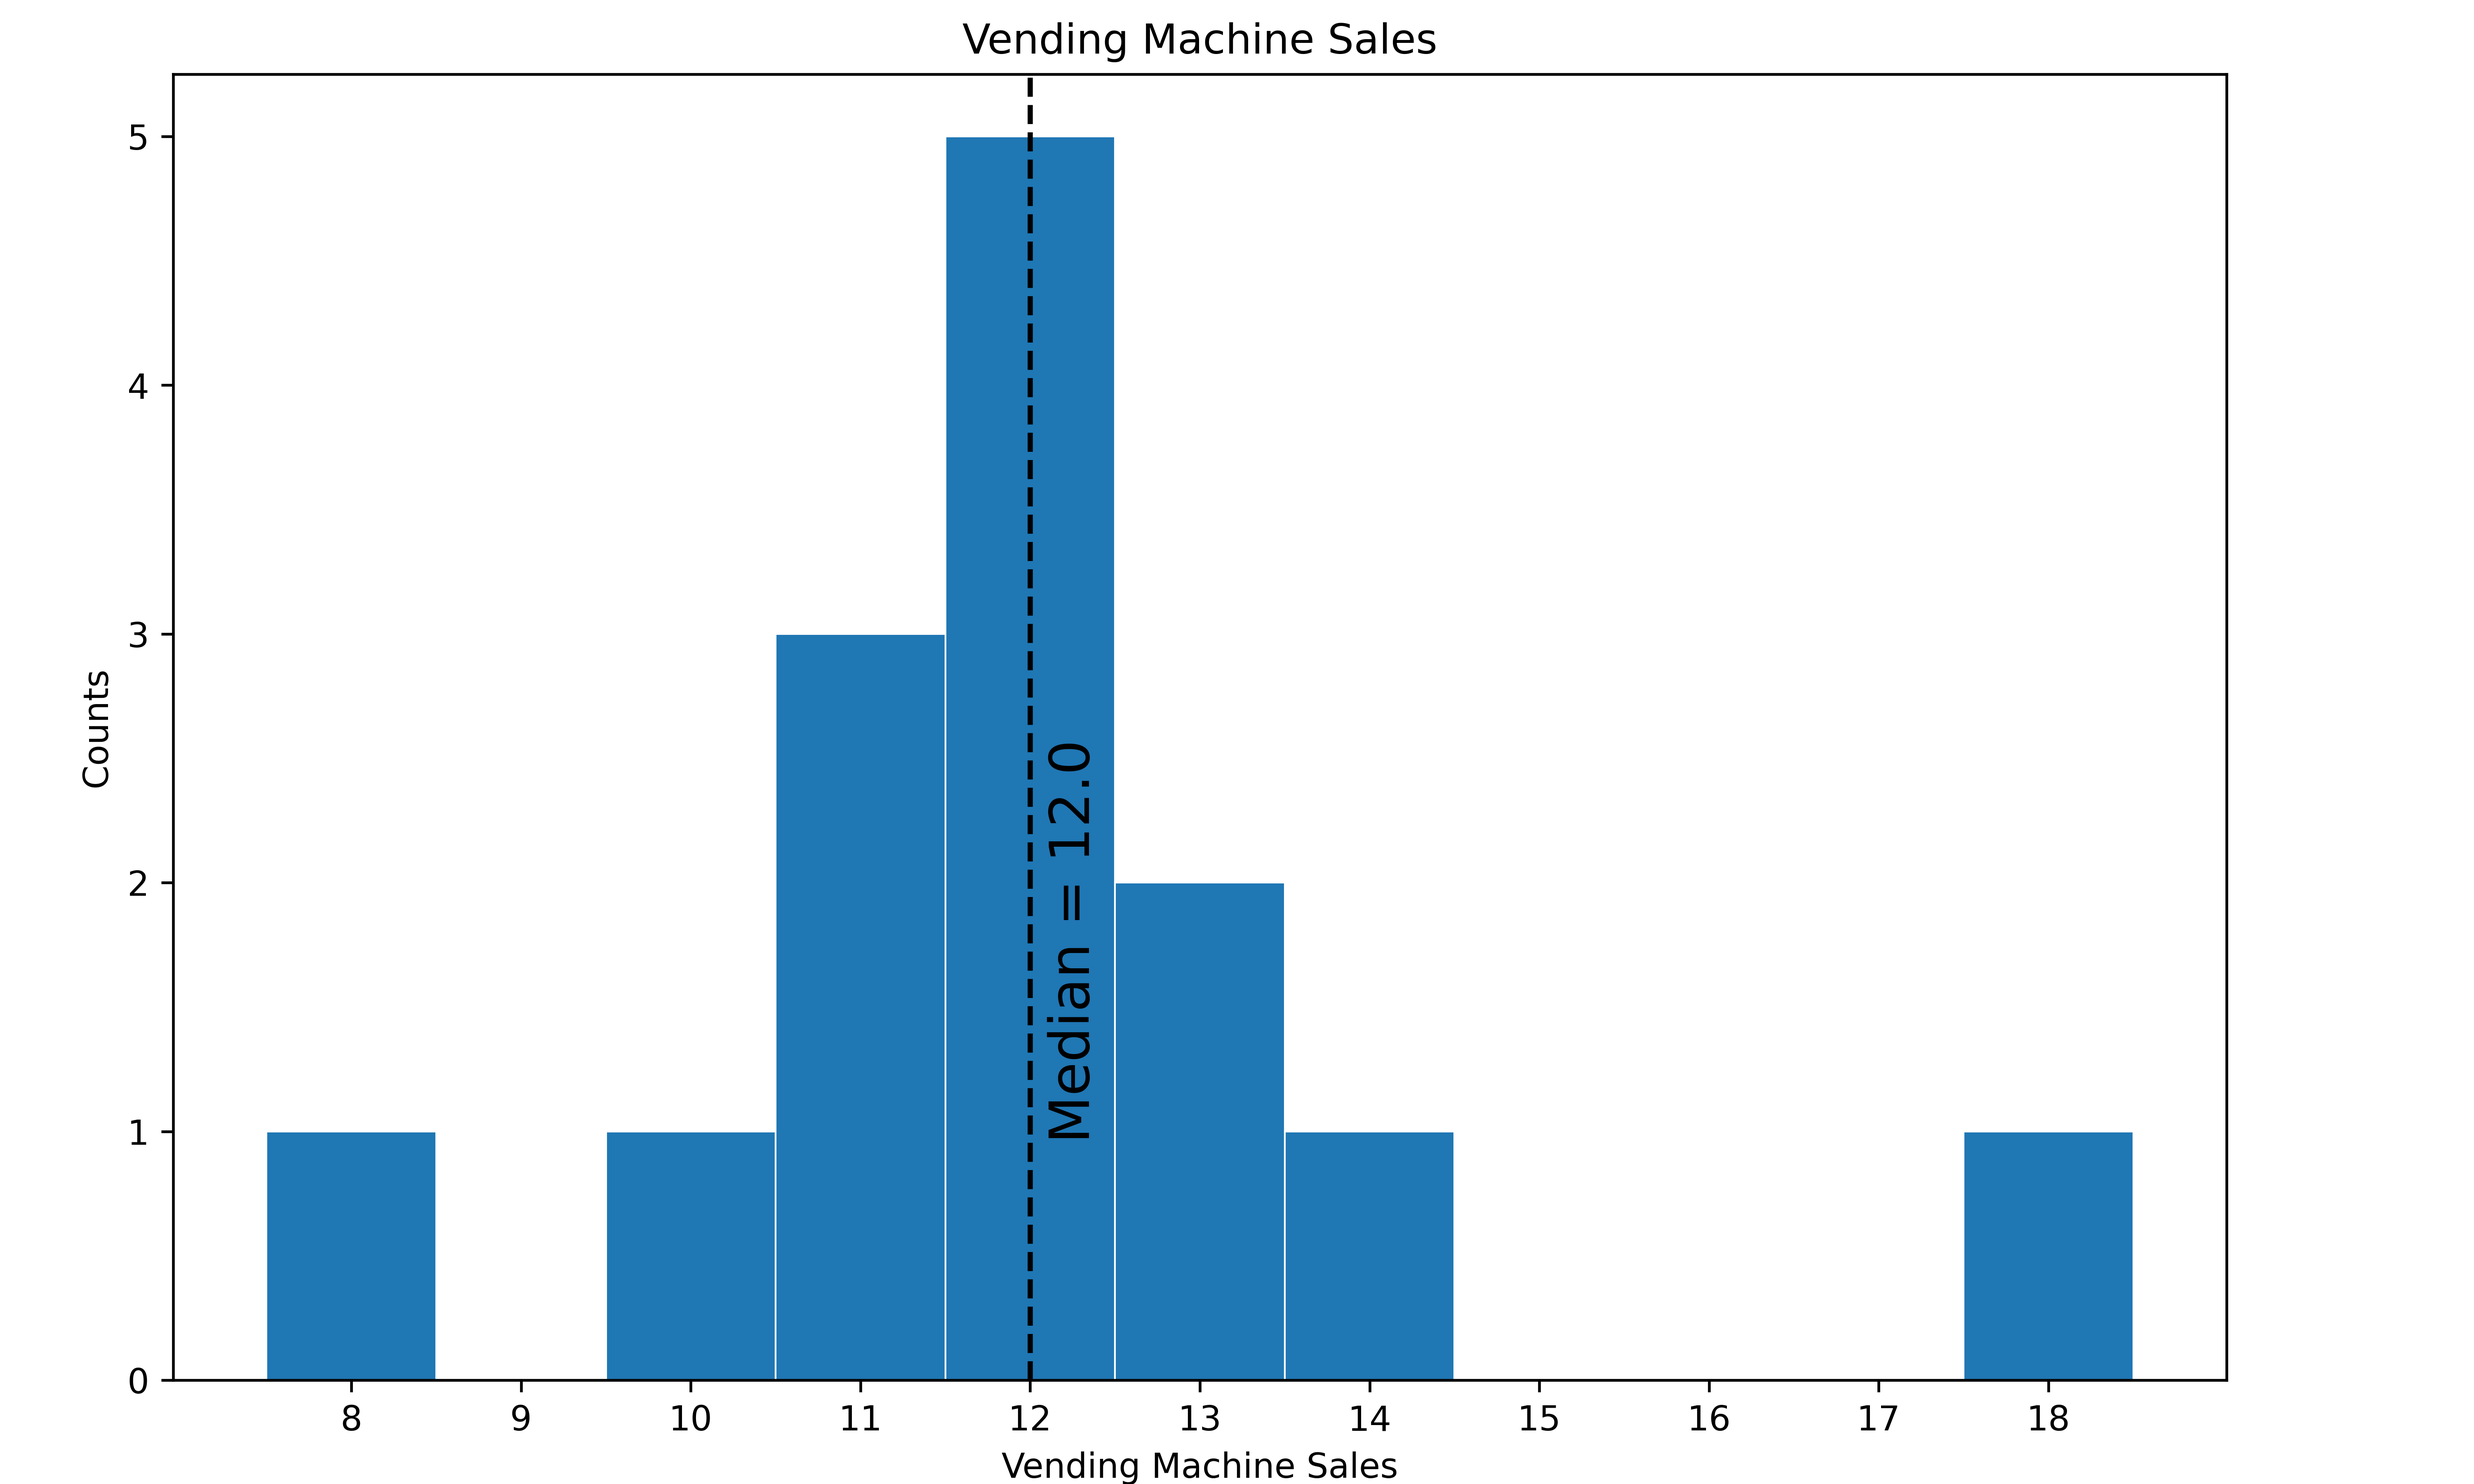
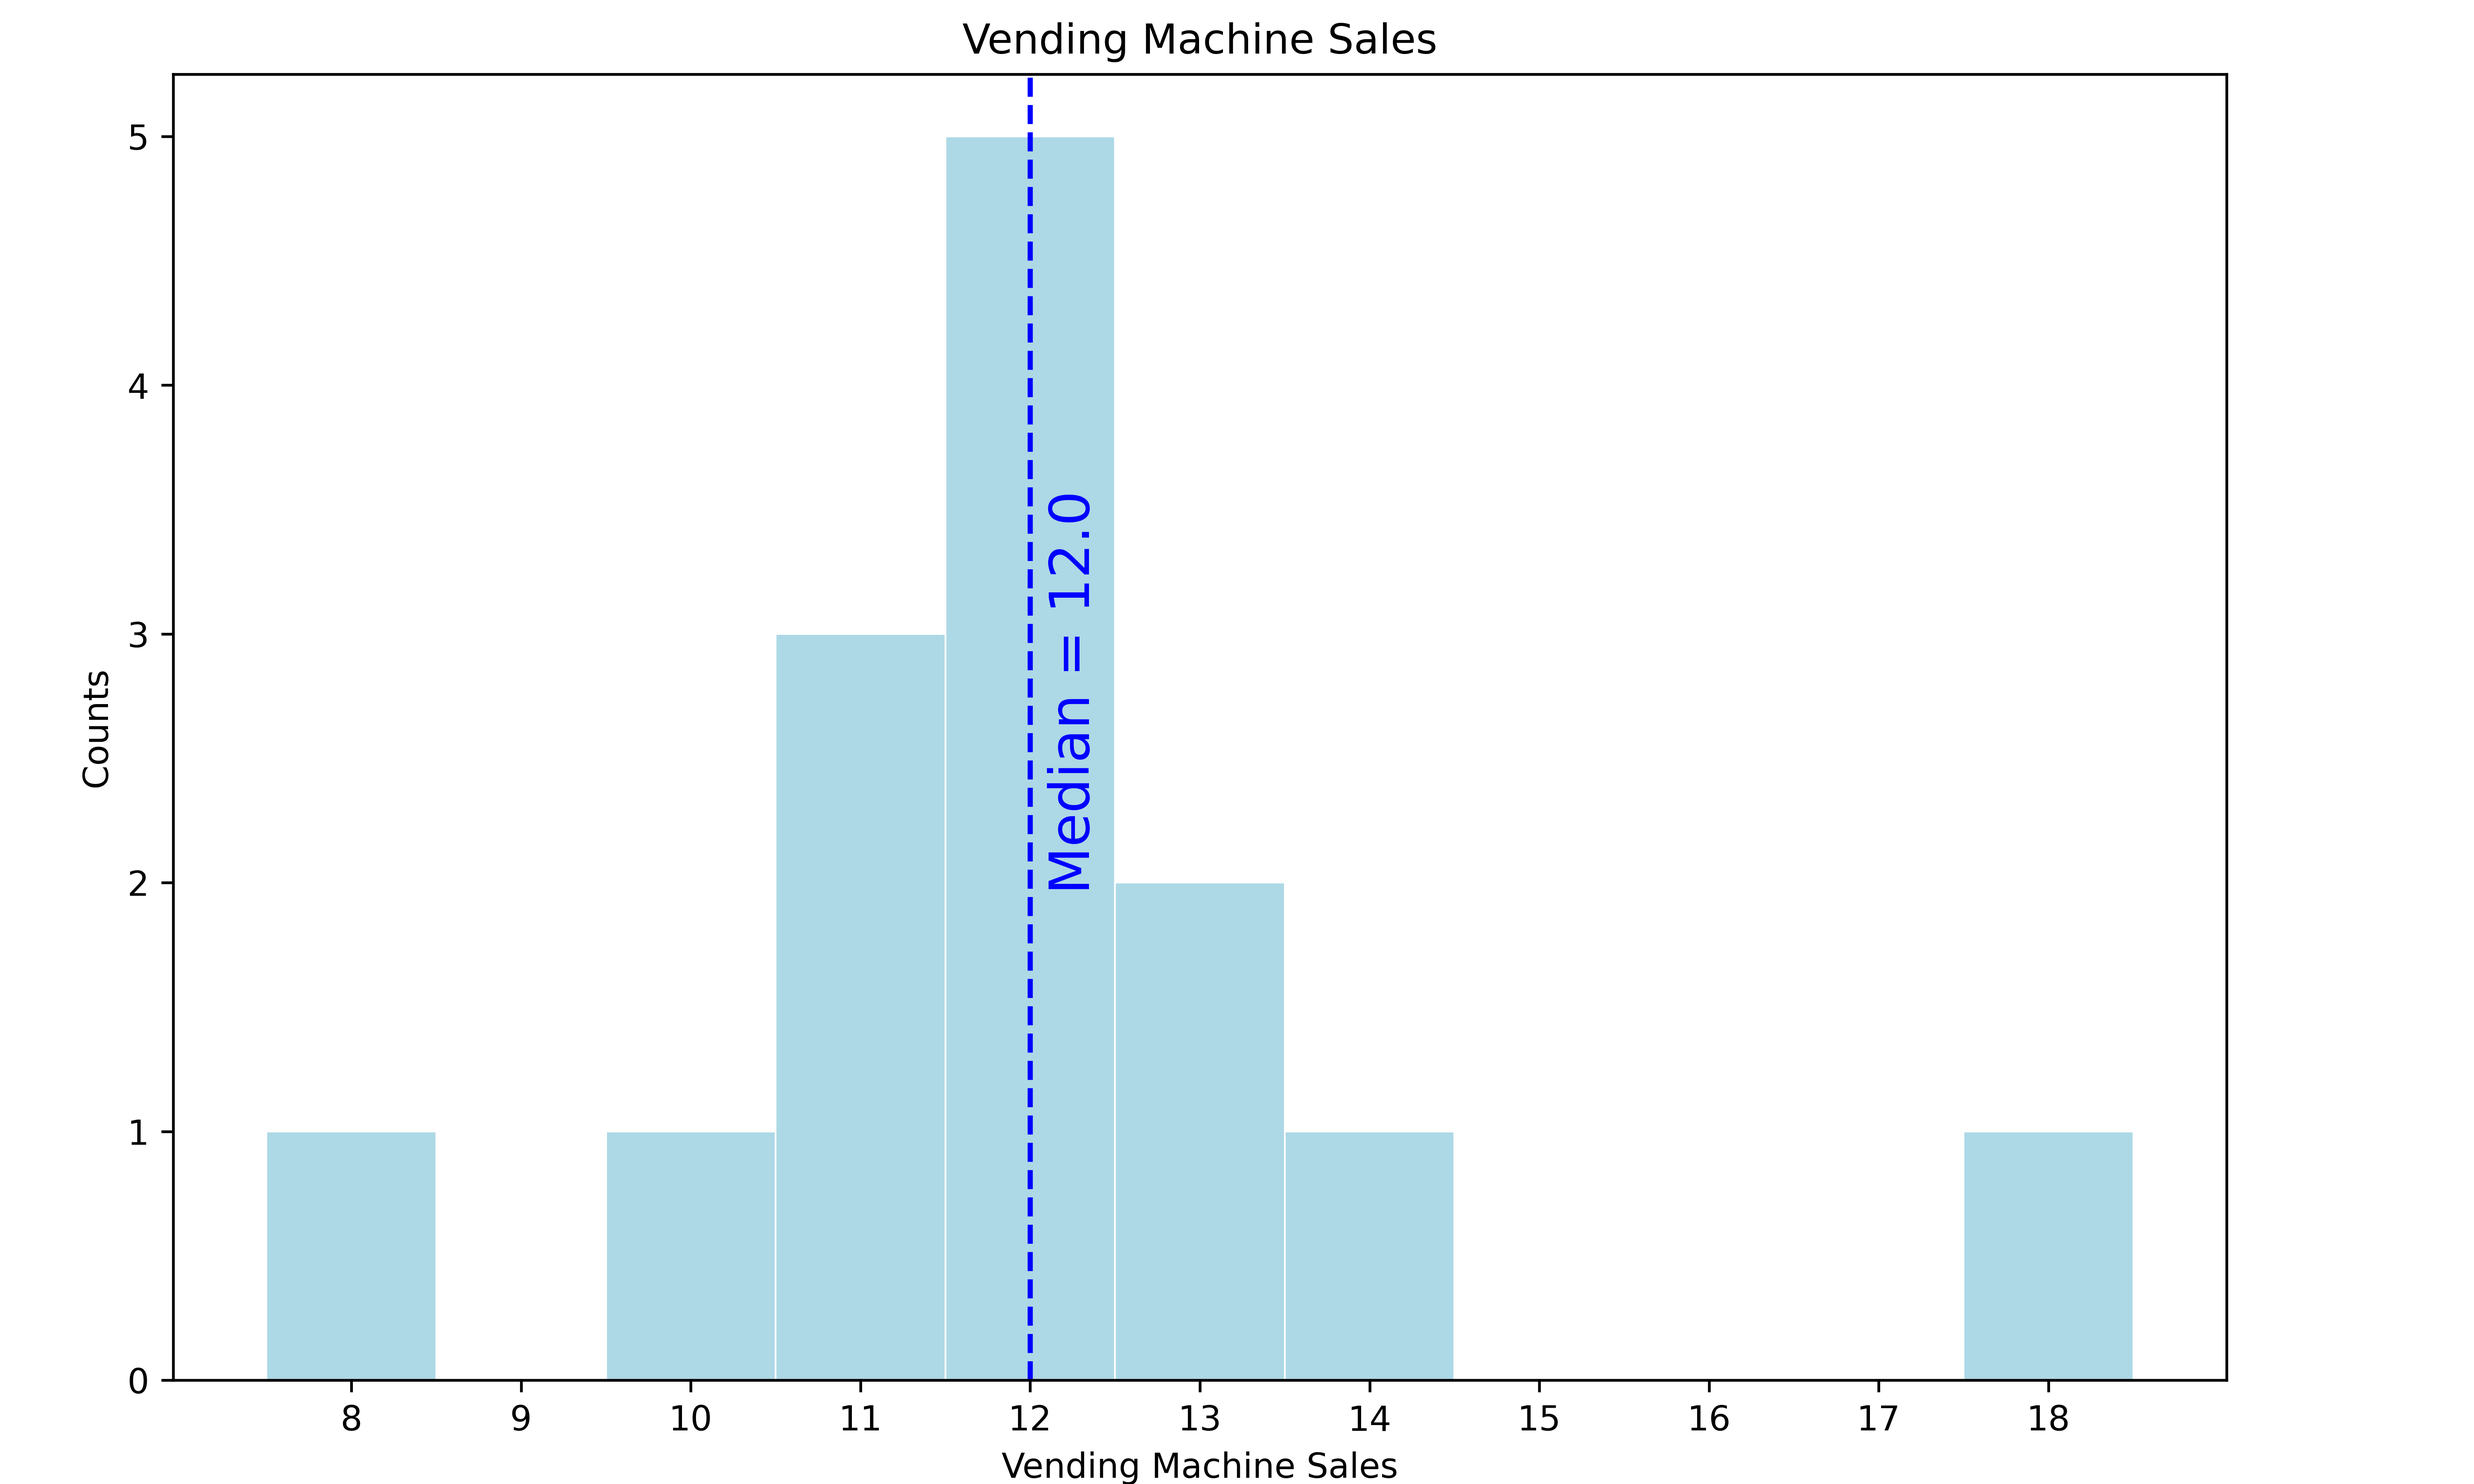
up

Changed region(s): [[0.2182, 0.0933, 0.5922, 0.9333], [0.7792, 0.7467, 0.8727, 0.9333], [0.0935, 0.7467, 0.187, 0.9333]]

diff --git a/docs/matplotlib/files/histogram.py b/docs/matplotlib/files/histogram.py
@@ -5,42 +5,47 @@ from pathlib import Path
 
 
 def plot_histogram(x, title, median):
-    # plt.style.use('_mpl-gallery')
-    # plot:
-    fig, ax = plt.subplots(figsize=(10, 6))
-    # The hist function returns three values: the counts of each bin in the histogram, the edges of the bins, and the patches used to create the histogram.
-    counts, _, _ = ax.hist(x, bins=np.arange(min(x), max(x)+2), linewidth=0.5, edgecolor="white")
-    # set the x and y ticks
+    # Create a new figure with the specified size
+    plt.figure(figsize=(10, 6))
+    # Create a histogram plot of the data in x with the specified bin edges, line width, edge color, and fill color
+    counts, _, _ = plt.hist(x, bins=np.arange(min(x), max(x)+2), linewidth=0.5, edgecolor="white", color="lightblue")
+    # set the x and y tick locations and labels for the plot to display integer values along both axes, with an offset of 0.5 units for the x tick locations so hte tick is in the middle of each column
     ticks_offset = 0.5
     plt.xticks(np.arange(min(x), max(x)+1) + ticks_offset, np.arange(min(x), max(x)+1))
     plt.yticks(range(0, int(max(counts))+1))
-    # set the x label
+    # Set the x and y axis title labels
     plt.xlabel(title)
     plt.ylabel('Counts')
+    # Set the plot title
     plt.title(title)
-    # Add a x, y axis lines through the origin
-    plt.axvline(median + ticks_offset, color="k", linestyle="--")
-    plt.text(median + ticks_offset + 0.1, 1, f"Median = {median:.1f}", rotation=90, color="k", fontsize=16)
-    # adjust the margins of the plot
+    # Add a vertical line at the median value with the specified color and line style
+    plt.axvline(median + ticks_offset, color="b", linestyle="--")
+    # Add a text annotation at the specified x and y coordinates with the specified text, rotation, color, and font size
+    plt.text(median + ticks_offset + 0.1, 2, f"Median = {median:.1f}", rotation=90, color="b", fontsize=16)
+    # Adjust the margins of the plot to leave space for the axis labels and title
     plt.subplots_adjust(bottom=0.07, left=0.07, top=0.95)
-    # Save figure (dpi 300 is good when saving so graph has high resolution)
+    # Get the directory of the current file
     currfile_dir = Path(__file__).parent
+    # Replace spaces in title with underscores to create filename for saving figure
     filename = title.replace(" ", "_")
+    # build the image file path
     filepath = currfile_dir / (f"{filename}.png")
+    # Save figure (dpi 300 is good when saving so graph has high resolution)
     plt.savefig(filepath, dpi=600)
-    # Show plot
+    # Show the plot on the screen
     plt.show()
 
 
-def main():
-    # make data
+def plot_vending_sales():
+    # Create a list of data values
     x = [10, 8, 12, 11, 12, 18, 13, 11, 12, 11, 12, 12, 13, 14]
+    # Compute the median of the data values
     mymedian = median(x)
-    print(mymedian)
+    # Set the title of the plot
     title = 'Vending Machine Sales'
-    # call the function to plot the data
+    # Call the function to plot the data with the specified title and median value
     plot_histogram(x, title, mymedian)
 
 
 if __name__ == '__main__':
-    main()
+    plot_vending_sales()

diff --git a/docs/matplotlib/files/dot_plot.py b/docs/matplotlib/files/dot_plot.py
@@ -47,8 +47,13 @@ def dot_plot(data, title):
     # Add a title
     title_str = title.title()
     plt.title(f"{title_str}", fontdict={"fontname": "Arial", "fontsize": 12})
+    # Get the directory of the current file
+    currfile_dir = Path(__file__).parent
+    # Replace spaces in title with underscores to create filename for saving figure
+    filename = title.replace(" ", "_")
+    # build the image file path
+    filepath = currfile_dir / (f"{filename}.png")
     # Save figure (dpi 300 is good when saving so graph has high resolution)
-    filepath = currfile_dir / (f"{title}.png")
     plt.savefig(filepath, dpi=600)
     # Show plot
     plt.show()
@@ -98,17 +103,17 @@ def random_data(min, max, n):
 # Call the main function if this file is run as a script
 if __name__ == "__main__":
     data = [1, 2, 3, 2, 0, 1, 0, 2, 5, 3, 2, 1, 2, 0, 2, 0, 1, 3, 2, 1]
-    title = "pets_per_household"
+    title = "pets per household"
     dot_plot(data, title)
 
     data = [2, 0, 3, 2, 1, 0, 2, 3, 4, 2, 2, 1, 0, 1, 3, 2, 1, 0, 0, 0, 2, 2, 3, 3]
-    title = "vehicles_per_household"
+    title = "vehicles per household"
     dot_plot(data, title)
 
     data = random_data(1, 6, 20)
-    title = "Random_distribution"
+    title = "Random distribution"
     dot_plot(data, title)
     
     data = norm_sample_data(5, 45, 25, 3, 50)
-    title = "Normal_distribution"
+    title = "Normal distribution"
     dot_plot(data, title)

diff --git a/docs/matplotlib/files/pie_chart_letters_combined.py b/docs/matplotlib/files/pie_chart_letters_combined.py
@@ -34,10 +34,12 @@ def plot_pie_chart(data, labels, full_labels, title):
     last_text.set_position((x,y))
     last_text.set_size(12) # Set the font size to 10
     # Get the directory of the current file
-    currfile_dir = Path(__file__).parent# Replace spaces in title with underscores to create filename for saving figure
+    currfile_dir = Path(__file__).parent
+    # Replace spaces in title with underscores to create filename for saving figure
     filename = title.replace(" ", "_")
-    # Save figure (dpi 300 is good when saving so graph has high resolution)
+    # build the image file path
     filepath = currfile_dir / (f"{filename}.png")
+    # Save figure (dpi 300 is good when saving so graph has high resolution)
     plt.savefig(filepath, dpi=600)
     # Show plot
     plt.show()

diff --git a/docs/matplotlib/files/pie_chart_earth.py b/docs/matplotlib/files/pie_chart_earth.py
@@ -26,8 +26,9 @@ def plot_pie_chart(data, labels, full_labels, title):
     currfile_dir = Path(__file__).parent
     # Replace spaces in title with underscores to create filename for saving figure
     filename = title.replace(" ", "_")
-    # Save figure (dpi 300 is good when saving so graph has high resolution)
+    # build the image file path
     filepath = currfile_dir / (f"{filename}.png")
+    # Save figure (dpi 300 is good when saving so graph has high resolution)
     plt.savefig(filepath, dpi=600)
     # Show plot
     plt.show()

diff --git a/docs/matplotlib/files/plot_2.py b/docs/matplotlib/files/plot_2.py
@@ -68,7 +68,8 @@ def plot_line_graph(title, equations, labels):
     # Get the directory of the current file
     currfile_dir = Path(__file__).parent
     # Replace spaces in title with underscores to create filename for saving figure
-    filename = title.replace(" ", "_") 
+    filename = title.replace(" ", "_")
+    # build the image file path
     filepath = currfile_dir / (f"{filename}.png")
     # Save figure (dpi 300 is good when saving so graph has high resolution)
     plt.savefig(filepath, dpi=600)

diff --git a/docs/matplotlib/files/plot_1.py b/docs/matplotlib/files/plot_1.py
@@ -48,7 +48,8 @@ def plot_line_graph(title, equation, label):
     # Get the directory of the current file
     currfile_dir = Path(__file__).parent
     # Replace spaces in title with underscores to create filename for saving figure
-    filename = title.replace(" ", "_") 
+    filename = title.replace(" ", "_")
+    # build the image file path
     filepath = currfile_dir / (f"{filename}.png")
     # Save figure (dpi 300 is good when saving so graph has high resolution)
     plt.savefig(filepath, dpi=600)
